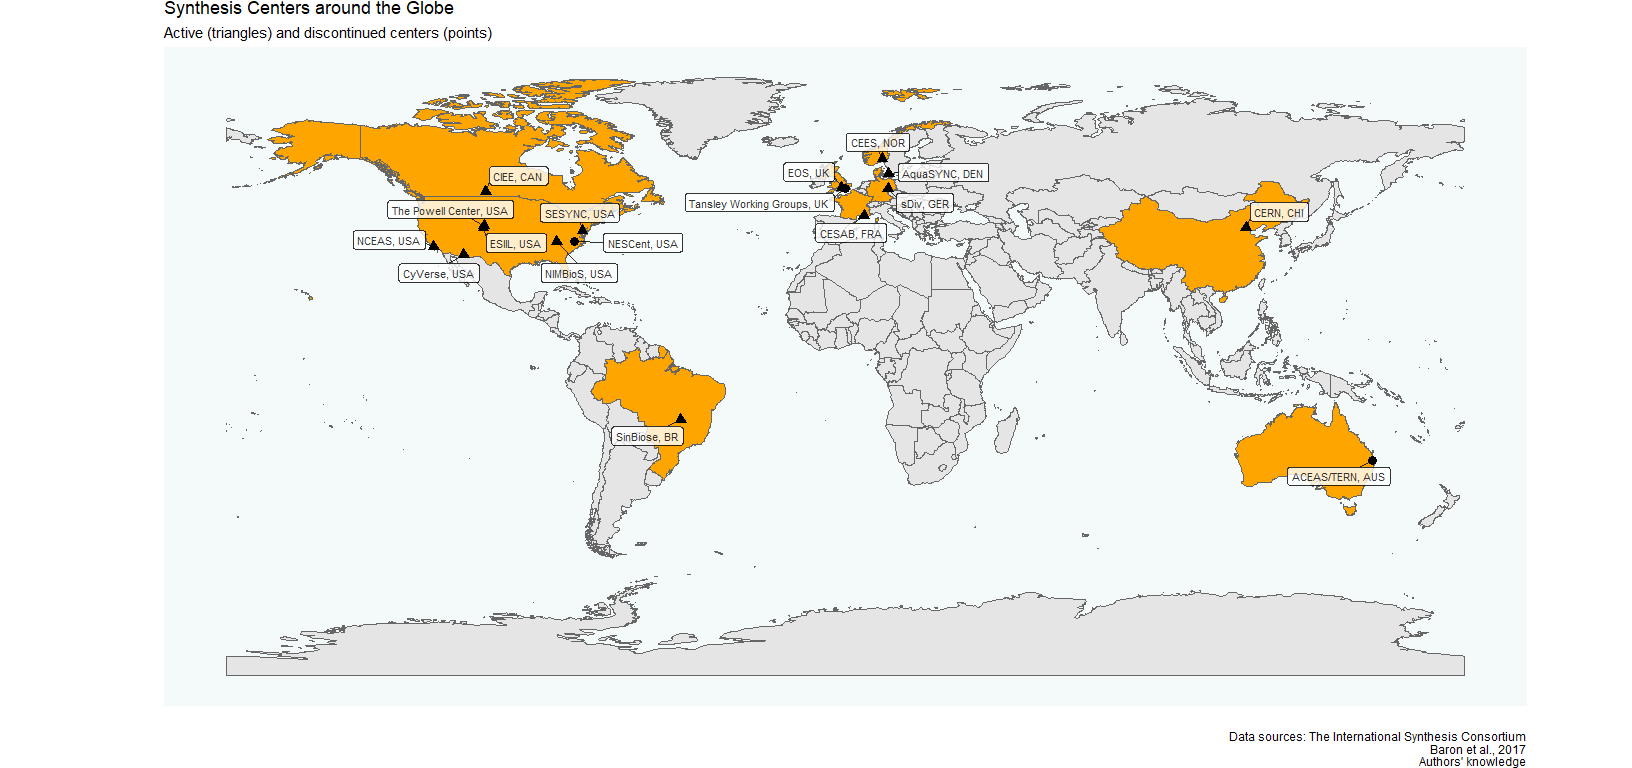
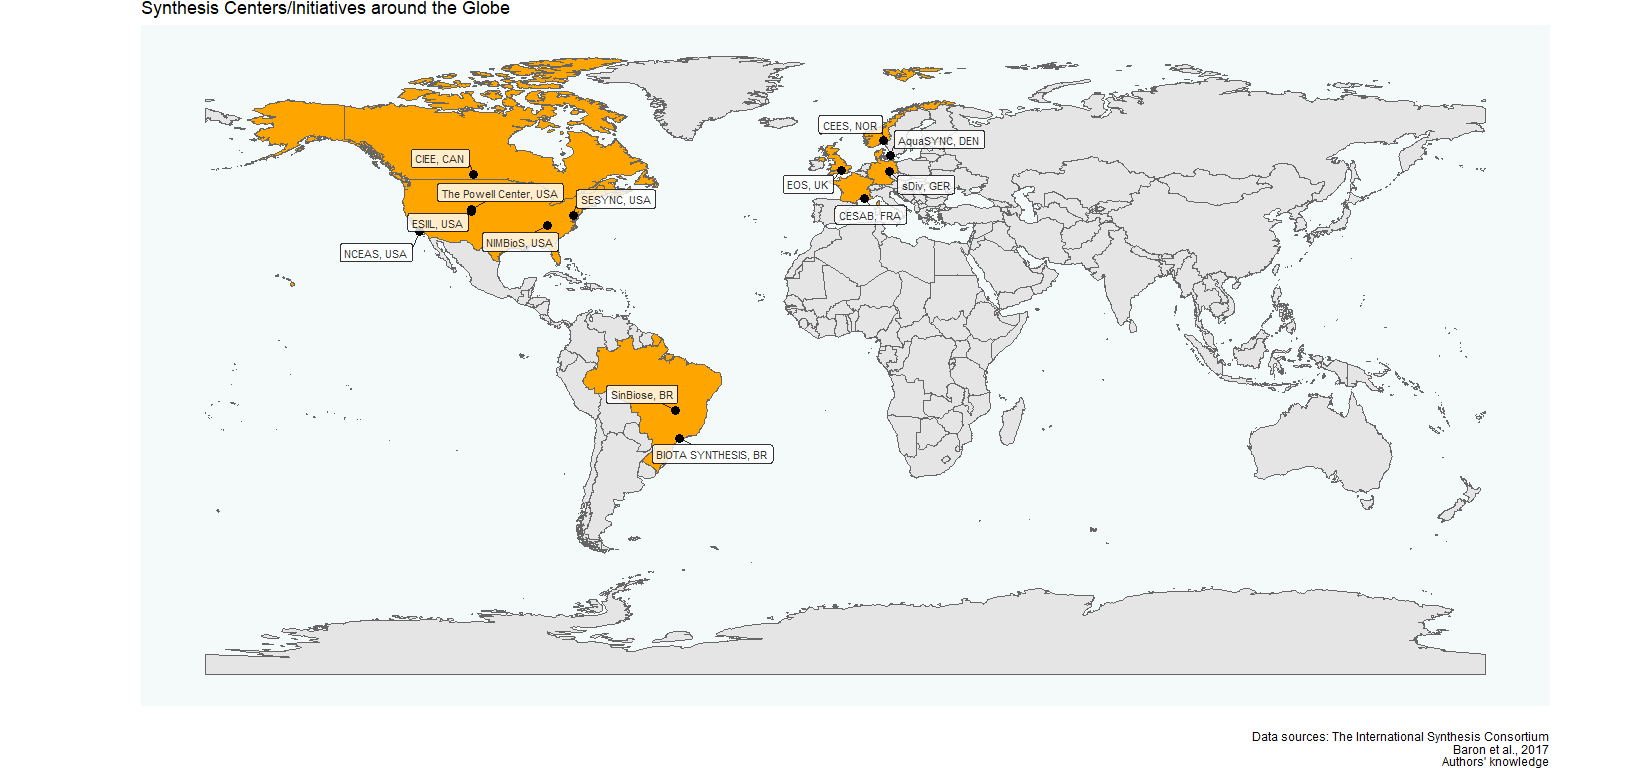
active centers, updated map

diff --git a/README.md b/README.md
@@ -1,10 +1,53 @@
-Synthesis science in Brazil
+Beyond data labor: Sowing synthesis science in the Global South
 ================
 A.L. Luza et al. in prep.
-2022-11-14
+2023-03-02
 
 <!-- README.md is generated from README.Rmd. Please edit that file -->
 <!-- badges: start -->
 <!-- badges: end -->
 
 <img src="README_files/figure-gfm/unnamed-chunk-1-1.png" width="120%" height="120%" style="display: block; margin: auto;" />
+
+<!-- badges: start -->
+<!-- badges: end -->
+
+#### This map was produced using the following software and associated packages:
+
+    ## R version 4.2.2 (2022-10-31 ucrt)
+    ## Platform: x86_64-w64-mingw32/x64 (64-bit)
+    ## Running under: Windows 10 x64 (build 19044)
+    ## 
+    ## Matrix products: default
+    ## 
+    ## locale:
+    ## [1] LC_COLLATE=Portuguese_Brazil.utf8  LC_CTYPE=Portuguese_Brazil.utf8   
+    ## [3] LC_MONETARY=Portuguese_Brazil.utf8 LC_NUMERIC=C                      
+    ## [5] LC_TIME=Portuguese_Brazil.utf8    
+    ## 
+    ## attached base packages:
+    ## [1] stats     graphics  grDevices utils     datasets  methods   base     
+    ## 
+    ## other attached packages:
+    ## [1] ggrepel_0.9.2       ggplot2_3.4.0       rnaturalearth_0.3.2
+    ## [4] dplyr_1.1.0         openxlsx_4.2.5.1   
+    ## 
+    ## loaded via a namespace (and not attached):
+    ##  [1] tidyselect_1.2.0        xfun_0.36               sf_1.0-9               
+    ##  [4] lattice_0.20-45         colorspace_2.1-0        vctrs_0.5.2            
+    ##  [7] generics_0.1.3          htmltools_0.5.4         yaml_2.3.7             
+    ## [10] utf8_1.2.2              rlang_1.0.6             e1071_1.7-12           
+    ## [13] pillar_1.8.1            glue_1.6.2              withr_2.5.0            
+    ## [16] DBI_1.1.3               sp_1.6-0                lifecycle_1.0.3        
+    ## [19] munsell_0.5.0           gtable_0.3.1            ragg_1.2.5             
+    ## [22] zip_2.2.2               evaluate_0.20           knitr_1.42             
+    ## [25] fastmap_1.1.0           class_7.3-20            fansi_1.0.4            
+    ## [28] highr_0.10              Rcpp_1.0.10             KernSmooth_2.23-20     
+    ## [31] scales_1.2.1            classInt_0.4-8          jsonlite_1.8.4         
+    ## [34] farver_2.1.1            systemfonts_1.0.4       textshaping_0.3.6      
+    ## [37] digest_0.6.31           stringi_1.7.12          grid_4.2.2             
+    ## [40] cli_3.6.0               tools_4.2.2             magrittr_2.0.3         
+    ## [43] proxy_0.4-27            tibble_3.1.8            pkgconfig_2.0.3        
+    ## [46] rmarkdown_2.20          httr_1.4.4              rstudioapi_0.14        
+    ## [49] R6_2.5.1                units_0.8-1             rnaturalearthdata_0.1.0
+    ## [52] compiler_4.2.2
